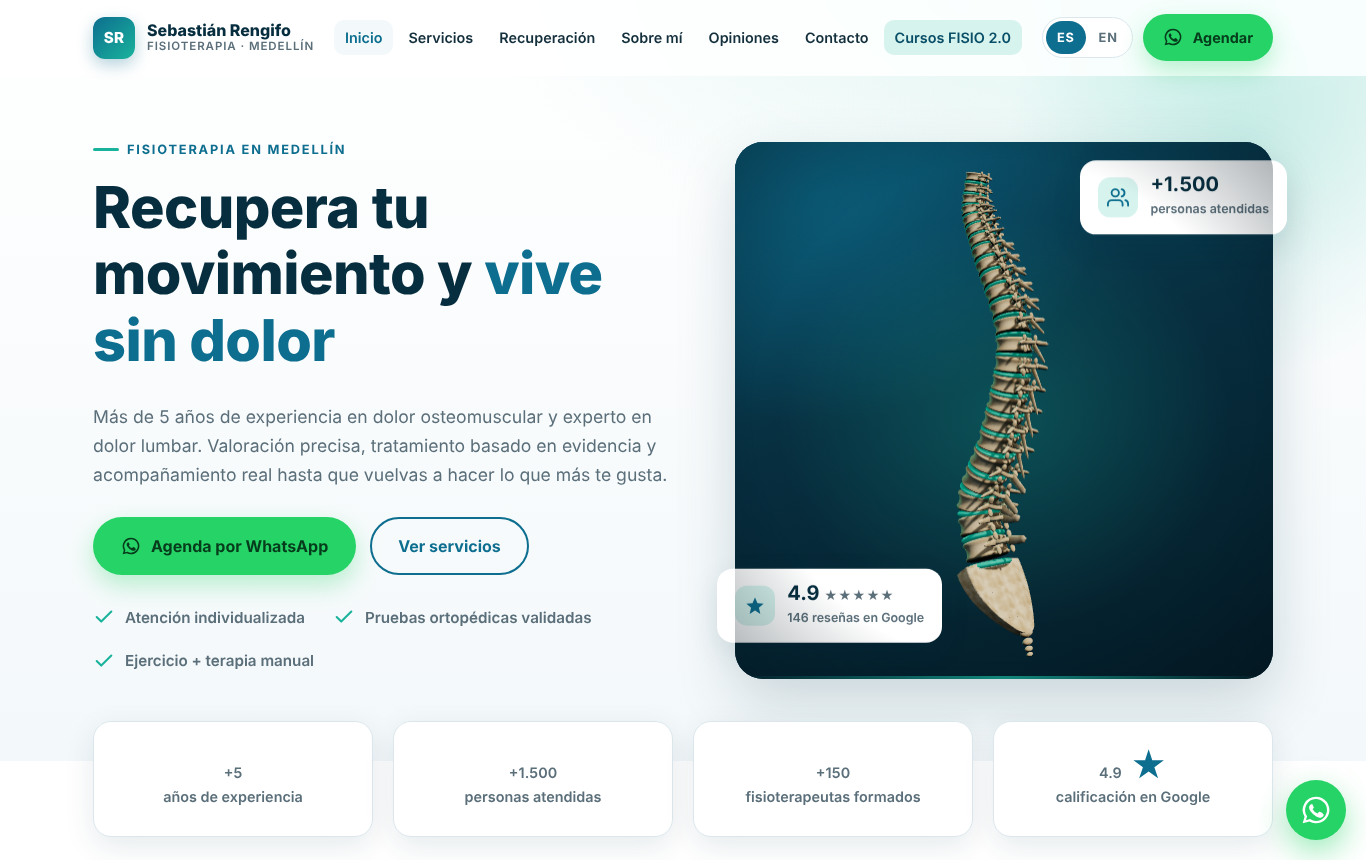
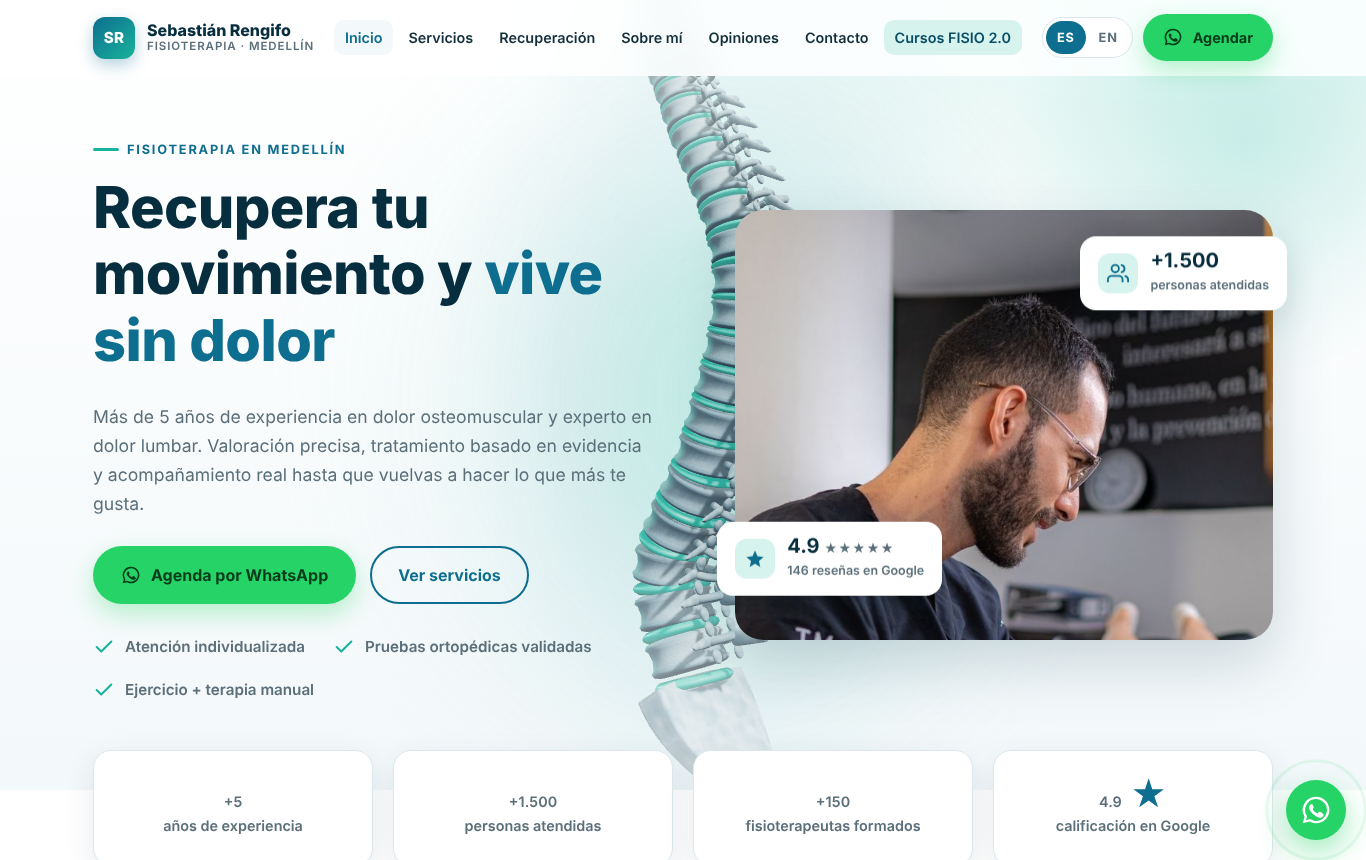
Hero: columna vertebral 3D de fondo con giro automático, foto de Sebas conservada

diff --git a/js/columna3d.js b/js/columna3d.js
@@ -1,19 +1,23 @@
 /* ============================================================================
-   Columna vertebral 3D para el hero (Three.js)
-   - Se monta dentro de #columna3d (dentro de .hero-photo) y reemplaza la foto.
-   - Si WebGL no está disponible, no hace nada y la foto queda como respaldo.
-   - Paleta integrada con el sitio: fondo azul profundo (--primary-deep),
-     hueso marfil, discos y contraluz en el teal de acento (--accent).
+   Columna vertebral 3D de fondo para el hero (Three.js)
+   - Se monta en #columna3d, un lienzo transparente que cubre toda la sección
+     .hero por detrás del contenido; el CSS la desvanece con una máscara
+     degradada y pone un halo teal detrás.
+   - Si WebGL no está disponible, no hace nada (el hero queda como siempre).
+   - Paleta integrada con el sitio sobre fondo claro: hueso azul-teal pálido,
+     discos en el teal de acento (--accent) y luces en --primary.
    ============================================================================ */
 import * as THREE from 'three';
 
 const CONFIG = {
-  velocidadGiro: 0.0045,      // radianes por frame (a 60 fps)
+  velocidadGiro: 0.0035,      // radianes por frame (a 60 fps)
   sentidoHorario: true,       // giro horario visto desde arriba
   mostrarEtiquetas: false,    // C1…L5 y S junto a cada vértebra
-  colorHueso: '#e3d6bd',      // base de la textura ósea (marfil cálido)
+  alturaRelativa: 1.12,       // alto de la columna respecto al alto del hero (>1 = se sale y se funde)
+  colorHueso: '#b9dbe2',      // base de la textura ósea (azul-teal pálido, para fondo claro)
+  colorPoros: [70, 120, 140], // tono de poros y vetas (RGB)
   colorDisco: 0x19b39c,       // --accent del sitio
-  colorContraluz: 0x3fd0b8,   // teal claro para el borde iluminado
+  colorContraluz: 0x19b39c,   // contraluz teal
   colorRelleno: 0x0d6e8f      // --primary del sitio
 };
 
@@ -43,9 +47,9 @@ function iniciar() {
   contenedor.appendChild(renderer.domElement);
 
   /* ---------------- Luces (clave cálida, contraluz teal, relleno azul) ---------------- */
-  escena.add(new THREE.HemisphereLight(0xfff4e6, 0x08303f, 0.6));
+  escena.add(new THREE.HemisphereLight(0xffffff, 0x0a4f68, 0.9));
 
-  const luzClave = new THREE.DirectionalLight(0xfff3e2, 2.3);
+  const luzClave = new THREE.DirectionalLight(0xffffff, 2.0);
   luzClave.position.set(6, 9, 8);
   luzClave.castShadow = true;
   luzClave.shadow.mapSize.set(1024, 1024);
@@ -65,12 +69,12 @@ function iniciar() {
 
   /* ---------------- Materiales ---------------- */
   const texHueso = crearTexturaHueso(renderer);
-  const matHueso = new THREE.MeshStandardMaterial({ map: texHueso, bumpMap: texHueso, bumpScale: 0.035, roughness: 0.78, metalness: 0 });
+  const matHueso = new THREE.MeshStandardMaterial({ map: texHueso, bumpMap: texHueso, bumpScale: 0.03, roughness: 0.6, metalness: 0.05 });
   const matDisco = new THREE.MeshPhysicalMaterial({
-    color: CONFIG.colorDisco, emissive: CONFIG.colorDisco, emissiveIntensity: 0.28,
-    roughness: 0.35, clearcoat: 0.5, clearcoatRoughness: 0.3, transparent: true, opacity: 0.95
+    color: CONFIG.colorDisco, emissive: CONFIG.colorDisco, emissiveIntensity: 0.35,
+    roughness: 0.3, clearcoat: 0.6, clearcoatRoughness: 0.3
   });
-  const matForamen = new THREE.MeshStandardMaterial({ color: 0x3a2e1f, roughness: 1 });
+  const matForamen = new THREE.MeshStandardMaterial({ color: 0x2f5f70, roughness: 1 });
 
   const ARRIBA = new THREE.Vector3(0, 1, 0);
 
@@ -319,34 +323,31 @@ function iniciar() {
   pivote.rotation.y = -Math.PI / 2 - 0.55;     // arranca en vista lateral-oblicua
   escena.add(pivote);
 
-  /* ---------------- Encuadre según el tamaño del contenedor ---------------- */
+  /* ---------------- Encuadre: cubre todo el hero y sitúa la columna en --x3d (CSS) ---------------- */
   function ajustar() {
     const w = contenedor.clientWidth || 1, h = contenedor.clientHeight || 1;
     renderer.setSize(w, h, false);
     camara.aspect = w / h;
     camara.updateProjectionMatrix();
     const fov = THREE.MathUtils.degToRad(camara.fov);
-    const distAlto = (tamano.y / 2) / Math.tan(fov / 2);
-    const distAncho = (Math.max(tamano.x, tamano.z) / 2) / Math.tan(fov / 2) / camara.aspect;
-    camara.position.set(0, 0.5, Math.max(distAlto, distAncho) * 1.08 + 0.8);
-    camara.lookAt(0, -0.1, 0);
+    // Tamaño y posición se leen del CSS (--alto3d, --x3d, --y3d) para poder variar por breakpoint
+    const css = getComputedStyle(contenedor);
+    const altoRel = parseFloat(css.getPropertyValue('--alto3d')) || CONFIG.alturaRelativa;
+    const fx = parseFloat(css.getPropertyValue('--x3d')) / 100 || 0.5;
+    const fy = parseFloat(css.getPropertyValue('--y3d')) / 100 || 0.5;
+    // Distancia para que la columna mida `altoRel` veces el alto visible
+    const dist = (tamano.y / 2) / Math.tan(fov / 2) / altoRel;
+    camara.position.set(0, 0, dist);
+    camara.lookAt(0, 0, 0);
+    const altoVisible = 2 * dist * Math.tan(fov / 2);
+    const anchoVisible = altoVisible * camara.aspect;
+    pivote.position.x = (fx - 0.5) * anchoVisible;
+    pivote.position.y = (0.5 - fy) * altoVisible;
   }
   ajustar();
   if ('ResizeObserver' in window) new ResizeObserver(ajustar).observe(contenedor);
   else window.addEventListener('resize', ajustar);
-
-  /* ---------------- Arrastrar para girar (horizontal); el scroll vertical sigue libre ---------------- */
-  let arrastrando = false, px = 0, py = 0, inclinacion = 0;
-  const lienzo = renderer.domElement;
-  lienzo.addEventListener('pointerdown', e => { arrastrando = true; px = e.clientX; py = e.clientY; lienzo.setPointerCapture(e.pointerId); });
-  lienzo.addEventListener('pointerup', e => { arrastrando = false; lienzo.releasePointerCapture(e.pointerId); });
-  lienzo.addEventListener('pointercancel', () => arrastrando = false);
-  lienzo.addEventListener('pointermove', e => {
-    if (!arrastrando) return;
-    pivote.rotation.y += (e.clientX - px) * 0.008;
-    inclinacion = THREE.MathUtils.clamp(inclinacion + (e.clientY - py) * 0.004, -0.5, 0.5);
-    px = e.clientX; py = e.clientY;
-  });
+  const arrastrando = false, inclinacion = 0;   // es un fondo decorativo: sin interacción
 
   /* ---------------- Animación (giro automático, se pausa fuera de pantalla) ---------------- */
   const direccion = CONFIG.sentidoHorario ? -1 : 1;
@@ -361,17 +362,13 @@ function iniciar() {
     requestAnimationFrame(animar);
     if (!visible) return;
     const dt = Math.min(reloj.getDelta(), 0.1) * 60;
-    if (!arrastrando && !reducirMovimiento) {
-      pivote.rotation.y += CONFIG.velocidadGiro * direccion * dt;
-      inclinacion *= Math.pow(0.96, dt);
-    }
+    if (!arrastrando && !reducirMovimiento) pivote.rotation.y += CONFIG.velocidadGiro * direccion * dt;
     pivote.rotation.x = inclinacion;
     renderer.render(escena, camara);
   }
   animar();
 
-  // Oculta la foto de respaldo y revela el lienzo con un fundido
-  contenedor.closest('.hero-photo')?.classList.add('is-3d');
+  // Revela el lienzo con un fundido
   requestAnimationFrame(() => contenedor.classList.add('ready'));
 
   window.columna3D = { escena, camara, renderer, pivote, columna, config: CONFIG };
@@ -385,29 +382,30 @@ function crearTexturaHueso(renderer, tam = 1024) {
   const r = Math.random;
   ctx.fillStyle = CONFIG.colorHueso;
   ctx.fillRect(0, 0, tam, tam);
+  const [pr, pg, pb] = CONFIG.colorPoros;
   for (let i = 0; i < 90; i++) {
     const x = r() * tam, y = r() * tam, rad = 60 + r() * 220;
     const g = ctx.createRadialGradient(x, y, 0, x, y, rad);
-    const tono = r() < 0.5 ? '170,140,95' : '245,236,214';
+    const tono = r() < 0.5 ? `${pr + 30},${pg + 30},${pb + 30}` : '240,250,252';
     g.addColorStop(0, `rgba(${tono},0.3)`); g.addColorStop(1, `rgba(${tono},0)`);
     ctx.fillStyle = g; ctx.fillRect(x - rad, y - rad, rad * 2, rad * 2);
   }
   ctx.lineWidth = 1;
   for (let i = 0; i < 400; i++) {
-    ctx.strokeStyle = `rgba(130,100,62,${0.07 + r() * 0.13})`;
+    ctx.strokeStyle = `rgba(${pr},${pg},${pb},${0.07 + r() * 0.13})`;
     ctx.beginPath();
     let x = r() * tam, y = r() * tam; ctx.moveTo(x, y);
     for (let k = 0; k < 6; k++) { x += (r() - 0.5) * 40; y += (r() - 0.5) * 40; ctx.lineTo(x, y); }
     ctx.stroke();
   }
   for (let i = 0; i < 14000; i++) {
-    ctx.fillStyle = `rgba(${95 + r() * 50},${75 + r() * 35},${45 + r() * 25},${0.1 + r() * 0.3})`;
+    ctx.fillStyle = `rgba(${pr - 20 + r() * 50},${pg - 20 + r() * 40},${pb - 10 + r() * 30},${0.1 + r() * 0.3})`;
     ctx.beginPath();
     ctx.ellipse(r() * tam, r() * tam, 0.8 + r() * 2.6, 0.8 + r() * 2.6, r() * Math.PI, 0, Math.PI * 2);
     ctx.fill();
   }
   for (let i = 0; i < 6000; i++) {
-    ctx.fillStyle = `rgba(250,244,228,${0.1 + r() * 0.3})`;
+    ctx.fillStyle = `rgba(250,255,255,${0.1 + r() * 0.3})`;
     ctx.beginPath(); ctx.arc(r() * tam, r() * tam, 0.6 + r() * 1.6, 0, Math.PI * 2); ctx.fill();
   }
   const tex = new THREE.CanvasTexture(c);

diff --git a/css/styles.css b/css/styles.css
@@ -144,28 +144,25 @@ p { margin: 0 0 1em; }
 @keyframes float { 0%, 100% { transform: translateY(0); } 50% { transform: translateY(-10px); } }
 .hero-bg-shape { position: absolute; width: 520px; height: 520px; border-radius: 50%; background: radial-gradient(circle, rgba(25,179,156,.18), transparent 65%); right: -140px; top: -120px; pointer-events: none; }
 
-/* ---------- Columna vertebral 3D en el hero ---------- */
-.hero-photo { position: relative; }
-.hero-photo.is-3d { aspect-ratio: 1 / 1; background: var(--primary-deep); }
-.hero-photo.is-3d img { visibility: hidden; }
+/* ---------- Columna vertebral 3D de fondo en el hero ---------- */
+.hero > .container { position: relative; z-index: 1; }
+.hero .lead { max-width: 560px; }
 .hero-3d {
-  position: absolute; inset: 0; opacity: 0; transition: opacity 1.2s ease; cursor: grab; touch-action: pan-y; user-select: none;
+  --x3d: 53%;                       /* centro horizontal de la columna (lo usan la máscara y el 3D) */
+  --y3d: 50%;                       /* centro vertical */
+  --alto3d: 1.12;                   /* alto de la columna respecto al alto del hero */
+  position: absolute; inset: 0; z-index: 0; pointer-events: none; user-select: none;
+  opacity: 0; transition: opacity 1.6s ease;
+  /* Halo teal/azul detrás de la columna, degradado hacia el fondo claro */
   background:
-    radial-gradient(60% 55% at 50% 52%, rgba(25,179,156,.28), transparent 70%),
-    radial-gradient(90% 70% at 15% 10%, rgba(13,110,143,.55), transparent 60%),
-    linear-gradient(160deg, #0a4f68 0%, var(--primary-deep) 45%, #041b26 100%);
+    radial-gradient(22% 70% at var(--x3d) var(--y3d), rgba(25,179,156,.22), rgba(13,110,143,.10) 55%, transparent 100%),
+    radial-gradient(40% 90% at var(--x3d) var(--y3d), rgba(215,243,238,.9), transparent 100%);
+  /* Desvanecido en los bordes para que se funda con el hero */
+  -webkit-mask-image: radial-gradient(34% 60% at var(--x3d) var(--y3d), #000 30%, rgba(0,0,0,.55) 65%, transparent 100%);
+          mask-image: radial-gradient(34% 60% at var(--x3d) var(--y3d), #000 30%, rgba(0,0,0,.55) 65%, transparent 100%);
 }
-.hero-3d::before { /* viñeta suave en los bordes para dar profundidad */
-  content: ""; position: absolute; inset: 0; pointer-events: none; z-index: 1;
-  background: radial-gradient(85% 85% at 50% 50%, transparent 55%, rgba(3,18,26,.55) 100%);
-}
-.hero-3d::after { /* brillo teal en el borde inferior, a juego con los botones */
-  content: ""; position: absolute; left: 0; right: 0; bottom: 0; height: 3px; pointer-events: none; z-index: 1;
-  background: linear-gradient(90deg, transparent, var(--accent), transparent); opacity: .7;
-}
-.hero-3d.ready { opacity: 1; }
-.hero-3d:active { cursor: grabbing; }
-.hero-3d canvas { display: block; width: 100% !important; height: 100% !important; position: relative; }
+.hero-3d.ready { opacity: .8; }
+.hero-3d canvas { display: block; width: 100% !important; height: 100% !important; }
 
 /* ---------- Stats ---------- */
 .stats { display: grid; grid-template-columns: repeat(4, 1fr); gap: 20px; margin-top: -40px; position: relative; z-index: 2; }
@@ -394,6 +391,8 @@ p { margin: 0 0 1em; }
   .hero-grid { grid-template-columns: 1fr; }
   .hero-media { order: -1; }
   .hero-photo { aspect-ratio: 16 / 10; }
+  .hero-3d { --x3d: 93%; --y3d: 60%; --alto3d: .55; }
+  .hero-3d.ready { opacity: .45; }
   .fc-1 { left: 10px; bottom: 14px; }
   .fc-2 { right: 10px; top: 14px; }
   .recovery-grid, .about-grid, .contact-grid, .enroll { grid-template-columns: 1fr; }

diff --git a/index.html b/index.html
@@ -58,6 +58,8 @@
 <!-- ================= HERO ================= -->
 <section class="hero" id="inicio">
   <div class="hero-bg-shape"></div>
+  <!-- Columna vertebral 3D de fondo (decorativa; si no hay WebGL simplemente no aparece) -->
+  <div class="hero-3d" id="columna3d" aria-hidden="true"></div>
   <div class="container hero-grid">
     <div class="reveal-left">
       <span class="eyebrow" data-i18n="hero.eyebrow">Fisioterapia en Medellín</span>
@@ -77,11 +79,7 @@
       </ul>
     </div>
     <div class="hero-media reveal-right">
-      <div class="hero-photo">
-        <img src="assets/img/hero.jpg" alt="Sebastián Rengifo atendiendo a un paciente en consulta" width="1080" height="594" fetchpriority="high">
-        <!-- Columna vertebral 3D (reemplaza la foto cuando WebGL está disponible) -->
-        <div class="hero-3d" id="columna3d" aria-hidden="true"></div>
-      </div>
+      <div class="hero-photo"><img src="assets/img/hero.jpg" alt="Sebastián Rengifo atendiendo a un paciente en consulta" width="1080" height="594" fetchpriority="high"></div>
       <div class="float-card fc-1">
         <div class="ico"><svg viewBox="0 0 24 24" fill="currentColor"><path d="M12 17.3 6.2 21l1.5-6.6L2.6 9.9l6.7-.6L12 3l2.7 6.3 6.7.6-5.1 4.5 1.5 6.6z"/></svg></div>
         <div><strong>4.9 <span class="stars">★★★★★</span></strong><span data-i18n="hero.badge1">146 reseñas en Google</span></div>

diff --git a/README.md b/README.md
@@ -11,7 +11,7 @@ Sitio estático (HTML + CSS + JavaScript puro, sin dependencias ni proceso de bu
 ├── js/config.js        ⚙  DATOS DE CONTACTO — edita aquí WhatsApp, dirección, Instagram, agenda
 ├── js/i18n.js          Traducciones al inglés (el español vive en el HTML)
 ├── js/main.js          Animaciones, menú, carrusel, traducción, formulario → WhatsApp
-├── js/columna3d.js     Columna vertebral 3D del hero (Three.js desde CDN; si no hay WebGL se muestra la foto)
+├── js/columna3d.js     Columna vertebral 3D de fondo en el hero (Three.js desde CDN; sin WebGL simplemente no aparece)
 └── assets/
     ├── img/            Fotos optimizadas para web
     ├── video/          Video de recuperación muscular (comprimido, 5 MB) + poster
@@ -59,7 +59,7 @@ Para usar un dominio propio después, agrega el dominio en **Settings → Pages 
 - **Textos en inglés**: en `js/i18n.js`. Cada texto del HTML tiene un atributo `data-i18n="clave"`; esa misma clave en `i18n.js` contiene la traducción.
 - **Precios**: están en las tarjetas de `index.html` (sección `#servicios`) y en la sección de recuperación muscular.
 - **Fotos**: reemplaza los archivos de `assets/img/` manteniendo el nombre, o cambia la ruta en el `src` de la imagen. Recomendado: JPG de máx. 1200 px de ancho.
-- **Columna 3D del hero**: en `js/columna3d.js`, el bloque `CONFIG` controla la velocidad y sentido del giro, los colores (hueso, discos, luces) y si se muestran las etiquetas C1…L5. La columna gira sola y también se puede arrastrar con el mouse o el dedo. Para volver a la foto, borra el `<div id="columna3d">` del `index.html`.
+- **Columna 3D de fondo del hero**: gira sola detrás del texto y la foto. En `js/columna3d.js`, el bloque `CONFIG` controla velocidad, sentido del giro, colores (hueso, discos, luces) y etiquetas C1…L5. Su posición, tamaño y desvanecido se ajustan en `css/styles.css` (bloque "Columna vertebral 3D de fondo": variables `--x3d`, `--y3d`, `--alto3d`, `opacity` y la máscara degradada; hay valores distintos para móvil). Para quitarla, borra el `<div id="columna3d">` del `index.html`.
 - **Video**: `assets/video/recuperacion.mp4` (vertical 9:16). Para cambiarlo, usa un MP4 H.264 de menos de ~10 MB.
 
 ## Características
